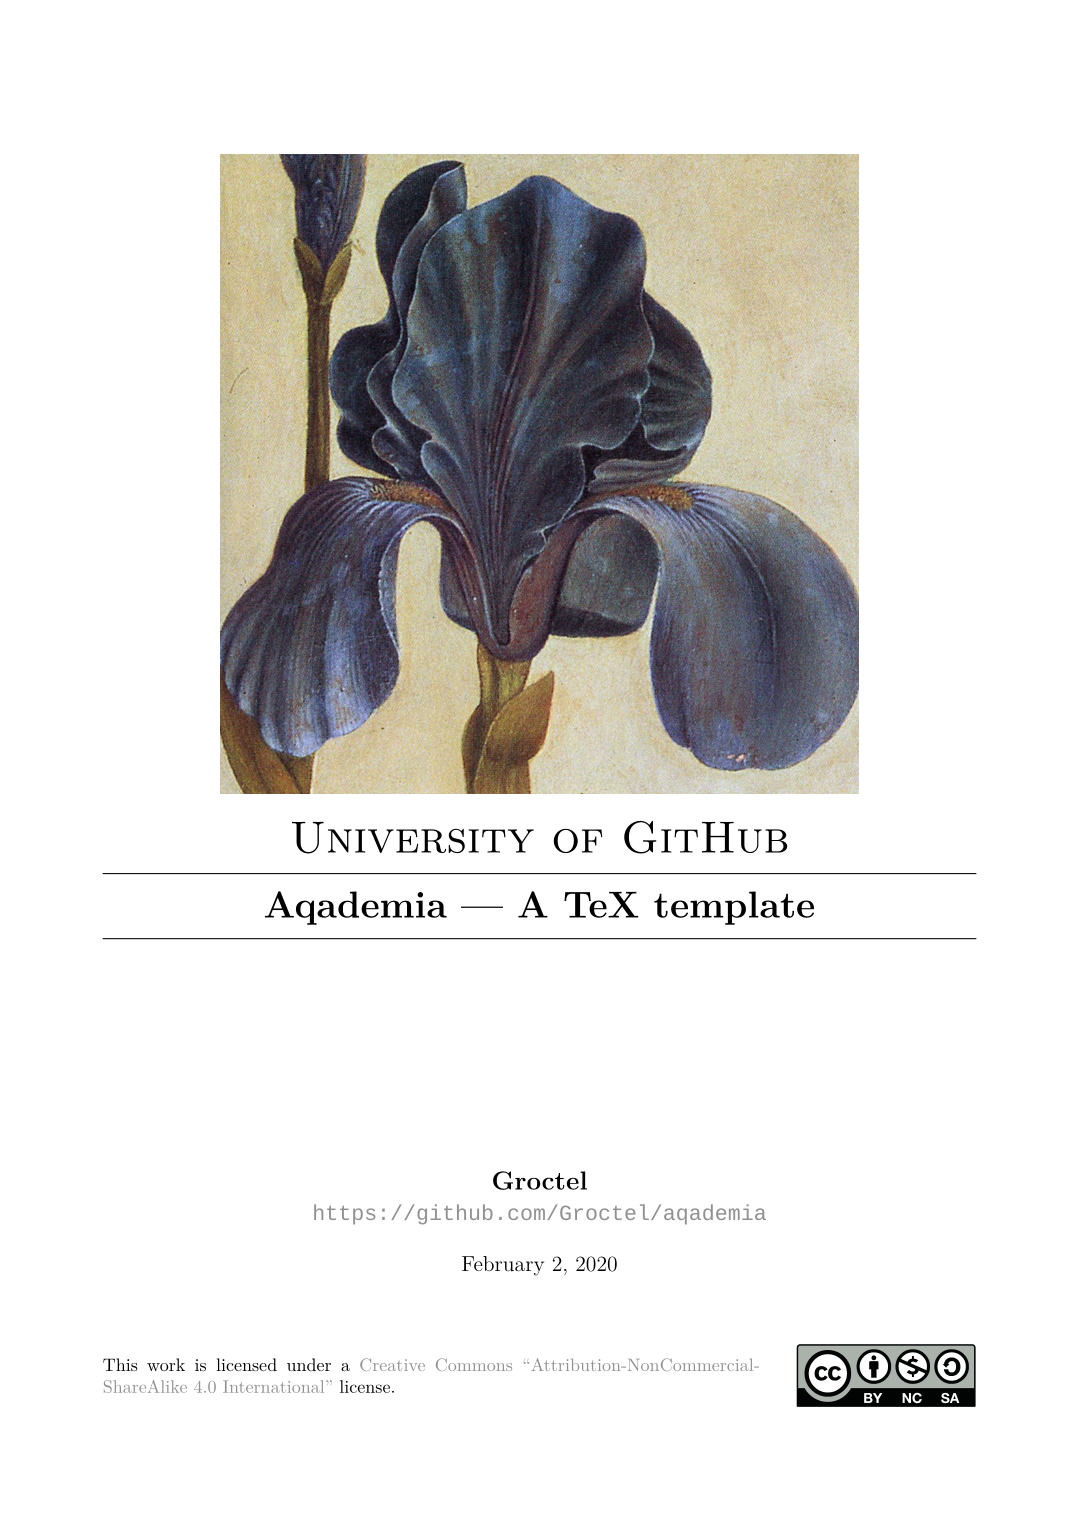
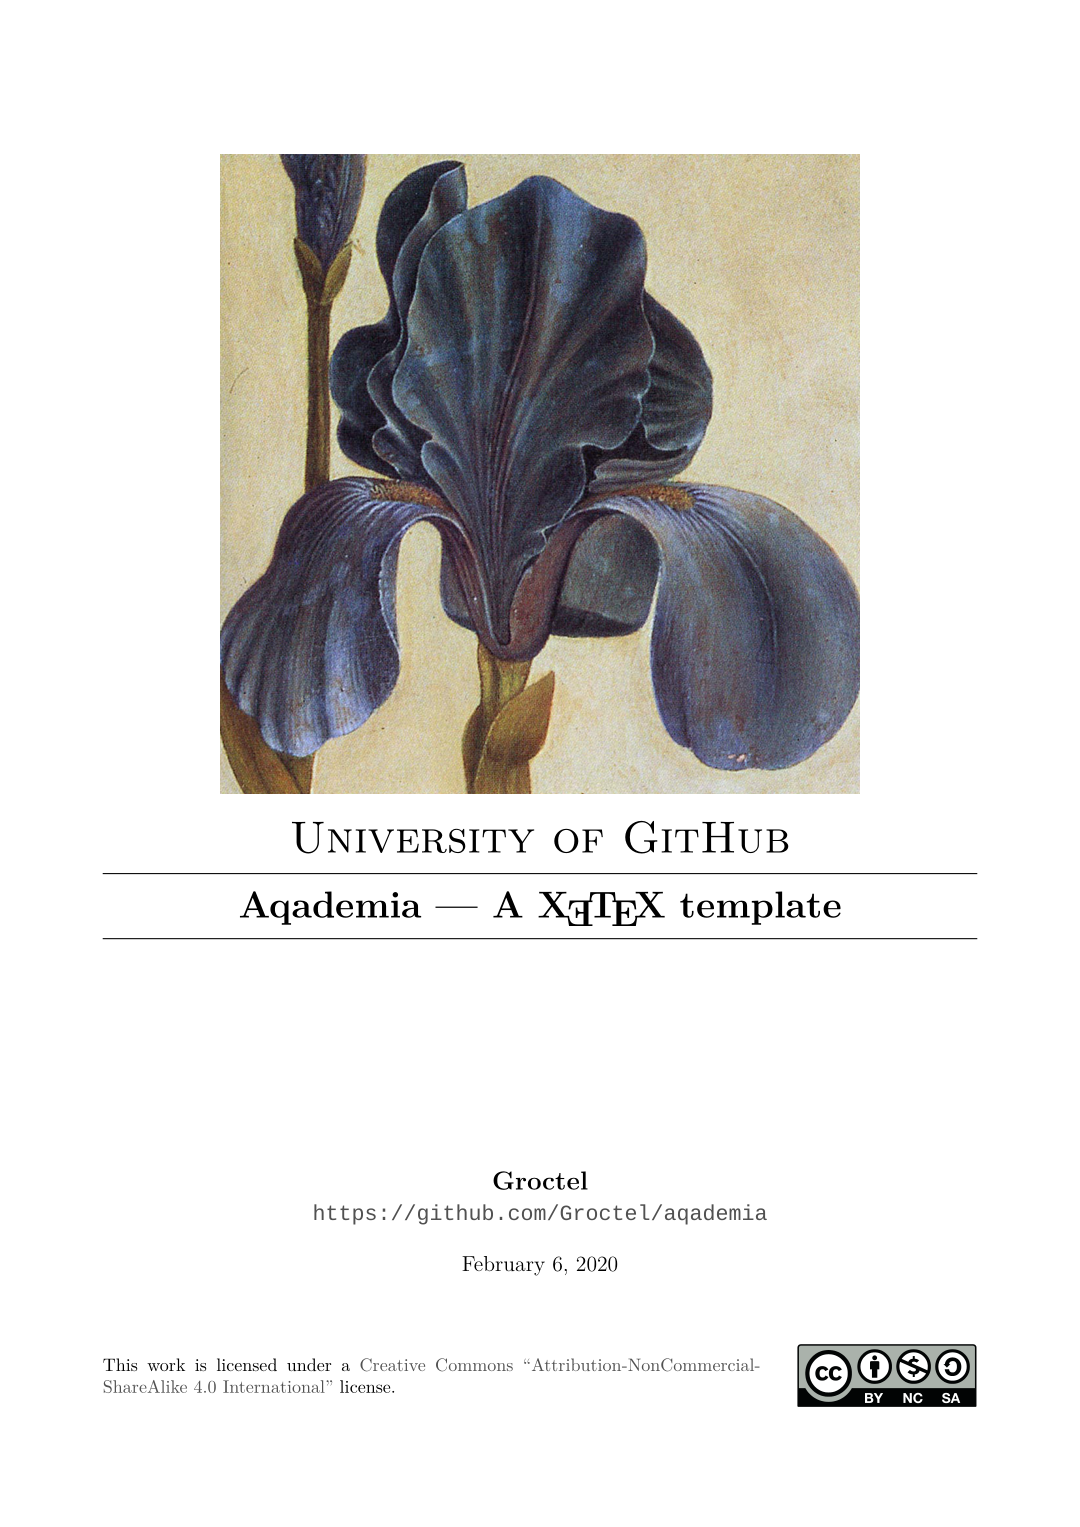
Added demo and changed minor style features

diff --git a/src/aqademia.tex b/src/aqademia.tex
@@ -4,6 +4,7 @@
 
 \usepackage[english]{babel}
 \usepackage[utf8]{inputenc}
+\usepackage{hologo}
 
 % Document title and licence
 
@@ -11,7 +12,7 @@
 	\title{Aqademia}
 	\author{Groctel}
 	\date{\today}
-	\newcommand\thesubtitle{ --- A TeX template}
+	\newcommand\thesubtitle{ --- A \hologo{XeTeX}\ template}
 	\newcommand\theorganization{University of GitHub}
 	\newcommand\therepository{\url{https://github.com/Groctel/aqademia}}
 \usepackage[type={CC},             % Createve commons
@@ -31,7 +32,7 @@
 \usepackage{vmargin}
 	\setpapersize{A4}
 	\setmarginsrb{2 cm}   % Left margin
-					 {1.5 cm} % Top margin
+	             {1.5 cm} % Top margin
 	             {2 cm}   % Text width
 	             {1.5 cm} % Text height
 	             {1 cm}   % Header height
@@ -45,21 +46,21 @@
 \usepackage{fancyhdr}
 	\pagestyle{fancy}
 	\fancyhf{}
-	\lhead{Sistemas operativos}
+	\lhead{Aqademia}
 	\rhead{\theauthor}
 	\cfoot{\thepage}
 \usepackage{titlesec}
-	\titleformat{\chapter}[block]{\normalfont\bfseries\Huge}{Módulo \thechapter:\\}{.5em}{}[]
-	\titleformat{\section}[block]{\normalfont\bfseries\huge}{Sesión\ \thesection:}{.5em}{}[]
-	\titleformat{\subsection}[block]{\normalfont\bfseries\Large}{\S\ \thesubsection:}{.5em}{}[]
-	\titleformat{\subsubsection}[block]{\normalfont\bfseries\large}{\thesubsubsection:}{.5em}{}[]
+	\titleformat{\chapter}[block]{\normalfont\bfseries\Huge}{Part \thechapter:\\\ }{0pt}{}[]
+	\titleformat{\section}[block]{\normalfont\bfseries\huge}{Session\ \thesection:\ }{0pt}{}[]
+	\titleformat{\subsection}[block]{\normalfont\bfseries\Large}{\S\ \thesubsection:\ }{0pt}{}[]
+	\titleformat{\subsubsection}[block]{\normalfont\bfseries\large}{\thesubsubsection:\ }{0pt}{}[]
 	\titlespacing*{\chapter}{0pt}{0pt}{30pt}
 \usepackage{hyperref}
 	\hypersetup{colorlinks = true,
-					linkcolor  = black,
-               filecolor  = black,
-               urlcolor   = gray
-              }
+	            linkcolor  = black,
+	            filecolor  = black,
+	            urlcolor   = darkgray
+	           }
 \usepackage[toc,page]{appendix}
 \usepackage{natbib}
 \usepackage{parskip}
@@ -71,6 +72,7 @@
 	\graphicspath{{img/}}
 \usepackage{tikz}
 \usepackage{xcolor}
+	\definecolor{listing-background} {HTML} {f7f7f7}
 	\definecolor{listing-numbers}    {HTML} {8e8e8e}
 	\definecolor{listing-text-color} {HTML} {2c2c2c}
 	\definecolor{listing-keyword}    {HTML} {6a2398}
@@ -80,18 +82,20 @@
 	\definecolor{listing-string}     {HTML} {568a34}
 	\definecolor{listing-comment}    {HTML} {8e8e8e}
 
+% Tables
+
+\usepackage{array}
+\usepackage{booktabs}
+
 % Listings
 
 \usepackage{listings}
-	\lstset{defaultdialect=[5.3]Lua}
-	\lstset{defaultdialect=[x86masm]Assembler}
-
-	\lstdefinestyle{customc}{basicstyle = \color{listing-text-color}\linespread{1.0}\small\ttfamily{},
+	\lstdefinestyle{aqademia-listings}{basicstyle = \color{listing-text-color}\linespread{1.0}\small\ttfamily{},
 	                         backgroundcolor  = \color{listing-background},
 	                         numbers          = left,
 	                         breaklines       = true,
 	                         breakindent      = 0pt,
-									 frame            = single,
+	                         frame            = single,
 	                         xleftmargin      = 0cm,
 	                         framexleftmargin = 0.08cm,
 	                         tabsize          = 3,
@@ -121,11 +125,11 @@
 		                         {…}{{\ldots}}1 {≥}{{>=}}1 {≤}{{<=}}1 {„}{{\glqq}}1 {“}{{\grqq}}1
 		                         {”}{{''}}1
 	                        }
-	\lstset{escapechar=@,style=customc}
+	\lstset{escapechar=@,style=aqademia-listings}
 
 % Standalone command definitions and redefinitions
 
-\newcommand{\code}[1]{\texttt{#1}}
+\newcommand{\code}[1]{\begingroup\fontsize{9pt}{12pt}\selectfont\texttt{#1}\endgroup}
 
 % Document composition
 
@@ -135,7 +139,7 @@
 
 \begin{titlepage}
 	\begin{center}
-			  \includegraphics[scale = 0.75]{titlepage.png}\\[0.5cm]
+		\includegraphics[scale = 0.75]{titlepage.png}\\[0.5cm]
 
 		\textsc{\Huge\theorganization}\\
 		\rule{\linewidth}{0.2 mm}\\[0.3 cm]
@@ -156,10 +160,22 @@
 
 % Document files
 
+\chapter{Getting to know Aqademia}
+
+\input{input/intro.tex}
+\input{input/properties.tex}
+\pagebreak
+\input{input/dependencies.tex}
+\input{input/building.tex}
+
 % Appendices formatting and files
 
 \setcounter{chapter}{0}
-\titleformat{\chapter}[block]{\normalfont\bfseries\Huge}{Appendix\ \MakeUppercase{\alph{chapter}}:}{.5em}{}[]
-\renewcommand{\thesubsection}{\MakeUppercase{\alph{chapter}}.\arabic{subsection}}
+\renewcommand{\thesection}{\MakeUppercase{\alph{chapter}}.\arabic{subsection}}
+\titleformat{\chapter}[block]{\normalfont\bfseries\Huge}{Appendix\ \MakeUppercase{\alph{chapter}}:\ }{0pt}{}[]
+\titleformat{\section}[block]{\normalfont\bfseries\Large}{\S\ \thesection:\ }{0pt}{}[]
+\titleformat{\subsection}[block]{\normalfont\bfseries\large}{\thesubsection:\ }{0pt}{}[]
+
+\input{input/appendix.tex}
 
 \end{document}

diff --git a/src/input/properties.tex b/src/input/properties.tex
@@ -1,0 +1,34 @@
+\section{Document properties}
+
+\subsection{Physical properties}
+
+This document is designed to be printed in European A4 paper and to fit as much text as possible in a single page without becoming too crowded (check the margins in \code{marginsrb}).
+It uses \code{fancy} style headers and footers and coloured hyperlinks.
+
+\subsection{Default values}
+
+This template provides some default values that can be changed to fit your document:
+
+\begin{center}
+\begin{tabular}{l c l}
+\textbf{Value}                                                    & \textbf{Line} & \textbf{Description}                       \\
+\midrule
+\midrule
+\code{\textbackslash{}title}                                      &      11       & Title of the document.                     \\
+\code{\textbackslash{}author}                                     &      12       & Author of the document.                    \\
+\code{\textbackslash{}date}                                       &      13       & Date of the last version of the document.  \\
+\code{\textbackslash{}thesubtitle}                                &      14       & Subtitle of the document (titlepage only). \\
+\code{\textbackslash{}theorganization}                            &      15       & Organization or other supertitle.          \\
+\code{\textbackslash{}therepository}                              &      16       & Link to the document's repository.         \\
+\code{doclicense}                                                 &      17       & Licence of the document.                   \\
+\code{\textbackslash{}lhead}                                      &      48       & Title of the document (header only).       \\
+\code{\textbackslash{}titleformat{\textbackslash{}chapter}}       &      52       & Chapter formatting.                        \\
+\code{\textbackslash{}titleformat{\textbackslash{}section}}       &      53       & Section formatting.                        \\
+\code{\textbackslash{}titleformat{\textbackslash{}subsection}}    &      54       & Subsection formatting.                     \\
+\code{\textbackslash{}titleformat{\textbackslash{}subsubsection}} &      55       & Subsubsection formatting.                  \\
+\code{\textbackslash{}graphicspath}                               &      71       & Picture searching path.                    \\
+\code{tabsize}                                                    &      97       & Size of tabs in listings.                  \\
+\code{\textbackslash{}titleformat{\textbackslash{}chapter}}       &     162       & Chapter formatting (appendices only).      \\
+\end{tabular}
+\end{center}
+

diff --git a/src/input/intro.tex b/src/input/intro.tex
@@ -1,0 +1,10 @@
+\section{A \hologo{XeTeX} template for printable academic documents}
+
+This is a custom \hologo{XeTeX} template designed for note taking and posterior printing (hence the serif font).
+It's a redesign of \href{https://github.com/advy99}{advy99}'s template, which is a heavy redesign of one \href{https://github.com/Dunspa}{Dunspa} provided us with.
+We regretably can't find the primary source anywhere, sorry about that.
+The listings style was inspired by \href{https://github.com/Wandmalfarbe}{Wandmalfarbe}'s Eisvogel.
+
+The placeholder image \code{src/titlepage.png} is \textit{Troiana Iris} by Albrecht Dürer.
+
+A demo is avaliable at the \href{https://github.com/Groctel/aqademia/releases}{releases} page.

diff --git a/src/input/appendix.tex b/src/input/appendix.tex
@@ -1,0 +1,16 @@
+\chapter{About appendices}
+
+\section{Differences over sessions}
+
+While the chapter is declared outside the \code{input} files in the sessions, it is declared as the appendices header.
+The \code{section} command is substituted by the \code{subsection} command previously used, so that the style is conserved without losing a sectioning level.
+
+\subsection{Subsections}
+
+The \code{subsection} level is also substituted by \code{subsubsection}.
+
+\section{Numbering}
+
+Appendices are referred to as a letter, starting from letter \code{A}.
+
+

diff --git a/src/input/dependencies.tex b/src/input/dependencies.tex
@@ -1,0 +1,6 @@
+\section{Dependencies}
+
+The font used in listings is \code{Libertine Mono}\footnote{It is scaled down in inline code sections}.
+The document is designed to be built with \hologo{XeTeX}.
+
+

diff --git a/src/input/building.tex b/src/input/building.tex
@@ -1,0 +1,6 @@
+\section{Building}
+
+\begin{lstlisting}[language=Bash]
+cd src
+xelatex aqademia.tex
+\end{lstlisting}

diff --git a/README.md b/README.md
@@ -5,14 +5,46 @@
 This is a custom TeX template designed for note taking and posterior printing (hence the serif font).
 It's a redesign of [advy99](https://github.com/advy99)'s template, which is a heavy redesign of one [Dunspa](https://github.com/Dunspa) provided us with.
 We regretably can't find the primary source anywhere, sorry about that.
+The listings style was inspired by [Wandmalfarbe](https://github.com/Wandmalfarbe)'s Eisvogel.
 
 The placeholder image `src/titlepage.png` is *Troiana Iris* by Albrecht Dürer.
 
+A demo is avaliable at the [releases](https://github.com/Groctel/aqademia/releases) page.
+
 ![Preview](preview.png)
+
+## Document properties
+
+### Physical properties
+
+This document is designed to be printed in European A4 paper and to fit as much text as possible in a single page without becoming too crowded (check the margins in `marginsrb`).
+It uses `fancy` style headers and footers and coloured hyperlinks.
+
+### Default values
+
+This template provides some default values that can be changed to fit your document:
+
+| Value                          | Line | Default                                     | Description                                |
+| :----------------------------- | :--: | :------------------------------------------ | :----------------------------------------- |
+| `\title`                       |  11  | `Aqademia`                                  | Title of the document.                     |
+| `\author`                      |  12  | `Groctel`                                   | Author of the document.                    |
+| `\date`                        |  13  | `\today`                                    | Date of the last version of the document.  |
+| `\thesubtitle`                 |  14  | ` --- A TeX template`                       | Subtitle of the document (titlepage only). |
+| `\theorganization`             |  15  | `University of GitHub`                      | Organization or other supertitle.          |
+| `\therepository`               |  16  | `https://github.com/Groctel/aqademia`       | Link to the document's repository.         |
+| `doclicense`                   |  17  | `{CC}{by-nc-sa}{4.0}`                       | Licence of the document.                   |
+| `\lhead`                       |  48  | `Aqademia`                                  | Title of the document (header only).       |
+| `\titleformat{\chapter}`       |  52  | `Part \thechapter:\\`                       | Chapter formatting.                        |
+| `\titleformat{\section}`       |  53  | `Session\ \thesection:`                     | Section formatting.                        |
+| `\titleformat{\subsection}`    |  54  | `\S\ \thesubsection:`                       | Subsection formatting.                     |
+| `\titleformat{\subsubsection}` |  55  | `\thesubsubsection`                         | Subsubsection formatting.                  |
+| `\graphicspath`                |  71  | `img/`                                      | Picture searching path.                    |
+| `tabsize`                      |  97  | `3`                                         | Size of tabs in listings.                  |
+| `\titleformat{\chapter}`       | 162  | `Appendix\ \MakeUppercase{\alph{chapter}}:` | Chapter formatting (appendices only).      |
 
 ## Dependencies
 
-The font used in listings is `Libertine Mono`.
+The font used in listings is `Libertine Mono` (It is scaled down in inline code sections).
 The document is designed to be build with `XeTeX`.
 
 ## Building
@@ -21,3 +53,20 @@ The document is designed to be build with `XeTeX`.
 cd src
 xelatex aqademia.tex
 ```
+
+## About appendices
+
+### Differences over sessions
+
+While the chapter is declared outside the `input` files in the sessions, it is declared as the appendices header.
+The `section` command is substituted by the `subsection` command previously used, so that the style is conserved without losing a sectioning level.
+
+#### Subsections
+
+The `subsection` level is also substituted by `subsubsection`.
+
+### Numbering
+
+Appendices are referred to as a letter, starting from letter `A`.
+
+
